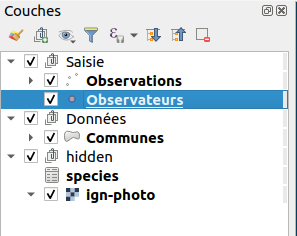
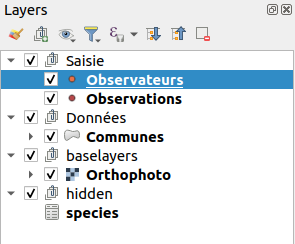
Update the French short workshop to 3.7

diff --git a/docs/workshop/fr/lizmap-short-02-first-map.md b/docs/workshop/fr/lizmap-short-02-first-map.md
@@ -3,6 +3,16 @@
 Nous allons publier le projet QGIS qui se trouve dans l'email afin de faire notre première carte visualisable sur
 internet.
 
+## Extension Lizmap
+
+* Installer l'extension Lizmap
+* Cliquer sur **Ajouter votre premier serveur** et suivre les étapes
+    * L'URL de la page d'accueil, exemple `https://workshop.lizmap.com/osgeofr/`.
+    * Le nom d'utilisateur et son mot de passe
+    * Si ces informations sont corrects, il demande le nom du serveur. Ce nom est libre, pour votre organisation.
+* Si votre serveur s'affiche bien dans le tableau, c'est bon 👍
+* Fermer l'extension Lizmap
+
 ## Manipulation dans QGIS
 
 * Ouvrir le projet
@@ -19,14 +29,12 @@ internet.
               * **publier** toutes les couches
     * Cliquer sur **OK**."
 * Ouvrir l'extension Lizmap
-* **Seulement lors de la première utilisation**, ajouter un serveur Lizmap **en bas** avec :
-    * l'URL de la page d'accueil, exemple `https://workshop.lizmap.com/osgeofr/`.
-    * Le nom d'utilisateur et son mot de passe
 * Quitter l'extension Lizmap (le fichier Lizmap est créé dès que l'on ferme la fenêtre)
 * Transférer le projet (`.qgs` et `.cfg`) dans le dossier `qgis/theme_formation` sur le FTP
 
 !!! tip
     **Bonus** si vous avez une petite image PNG qui se nomme `nom_du_projet.qgs.png` pour remplacer l'image du projet par défaut.
+    Vous pouvez regarder l'aide dans l'extension Lizmap → **Options de la carte** pour avoir de l'aide sur la vignette.
     Il faut mettre cette image à côté de votre fichier `nom_du_projet.qgs`. L'image peut-être **jpeg** aussi.
 
 ## Prendre en main l'interface web Lizmap

diff --git a/docs/workshop/fr/lizmap-short-07-print.md b/docs/workshop/fr/lizmap-short-07-print.md
@@ -3,7 +3,10 @@
 ## Choix de la zone d'impression par l'utilisateur
 
 * Dans le projet QGIS, il y a déjà une mise en page `Landscape A4`.
-    * Activer l'impression dans l'**extension** Lizmap, onglet **Options**
+* Dans l'extension Lizmap, onglet **Impression**, vérifiez la prise en compte de la mise en page
+    * Vous pouvez modifier si vous le souhaitez certains paramètres
+* Se rendre sur Lizmap pour voir le résultat
+* On peut rendre du contenu "modifiable par l'utilisateur" concernant certaines étiquettes
     * Personnaliser la zone de titre dans le PDF :
         * Clic sur le titre `Example workshop`
         * **Identifiant de l'objet** ➡ `title`
@@ -19,8 +22,10 @@
     * Activer l'atlas sur la couche des communes
     * Changer le titre pour afficher le nom de la commune
     * Configurer la carte pour suivre l'atlas.
+    * Se rendre dans l'extension Lizmap, onglet **Impression** pour confirmer la prise en compte
+    * Vous pouvez modifier si vous le souhaitez certains paramètres
 
 !!! success
-    Alors que dans ce cas-là, le PDF est lié à une entité précise.
+    Alors que dans ce cas-là, le PDF est lié à une entité précise, en haut de sa **popup**.
 
 **Passons à la dernière partie, [l'ajout de graphiques](./lizmap-short-08-dataviz.md) dans notre projet 👉**

diff --git a/docs/workshop/fr/lizmap-short-03-legend.md b/docs/workshop/fr/lizmap-short-03-legend.md
@@ -3,10 +3,11 @@
 * Faire des groupes dans la légende
     * `Saisie`
     * `Données`
-    * `hidden`, avec `h` minuscule
+* À l'aide de l'extension Lizmap, dans l'onglet **Fond de cartes** :
+    * on peut ajouter le fond "Orthophoto", qui va ajouter lui-même un groupe `baselayers`
+    * un groupe "caché" avec le bouton **hidden**
 * Ranger les couches dans les groupes en regardant la capture ci-dessous  
 * Renommer les couches avec un nom plus présentable
-    * **Exception** pour l'orthophoto IGN, dans le groupe `hidden` qui doit avoir le nom `ign-photo`
     
 ![legend](../media/legend.png)
 

diff --git a/docs/workshop/fr/lizmap-short-01-intro.md b/docs/workshop/fr/lizmap-short-01-intro.md
@@ -8,6 +8,7 @@ Cet atelier concerne les utilisateurs de l'atelier Lizmap sur 1/2 journée.
      * `qgis/theme_formation` : le dossier pour l'atelier
      * `qgis/theme_formation/media/metadata.pdf` : un fichier PDF
 * QGIS **3.28**
+* Lizmap Web Client **3.7.X**
 * Extension Lizmap dans QGIS Bureautique avec la dernière version disponible
 * [Projet QGIS](https://tinyurl.com/formation-lizmap) à télécharger
      * Le projet QGIS contient déjà les couches PostgreSQL
